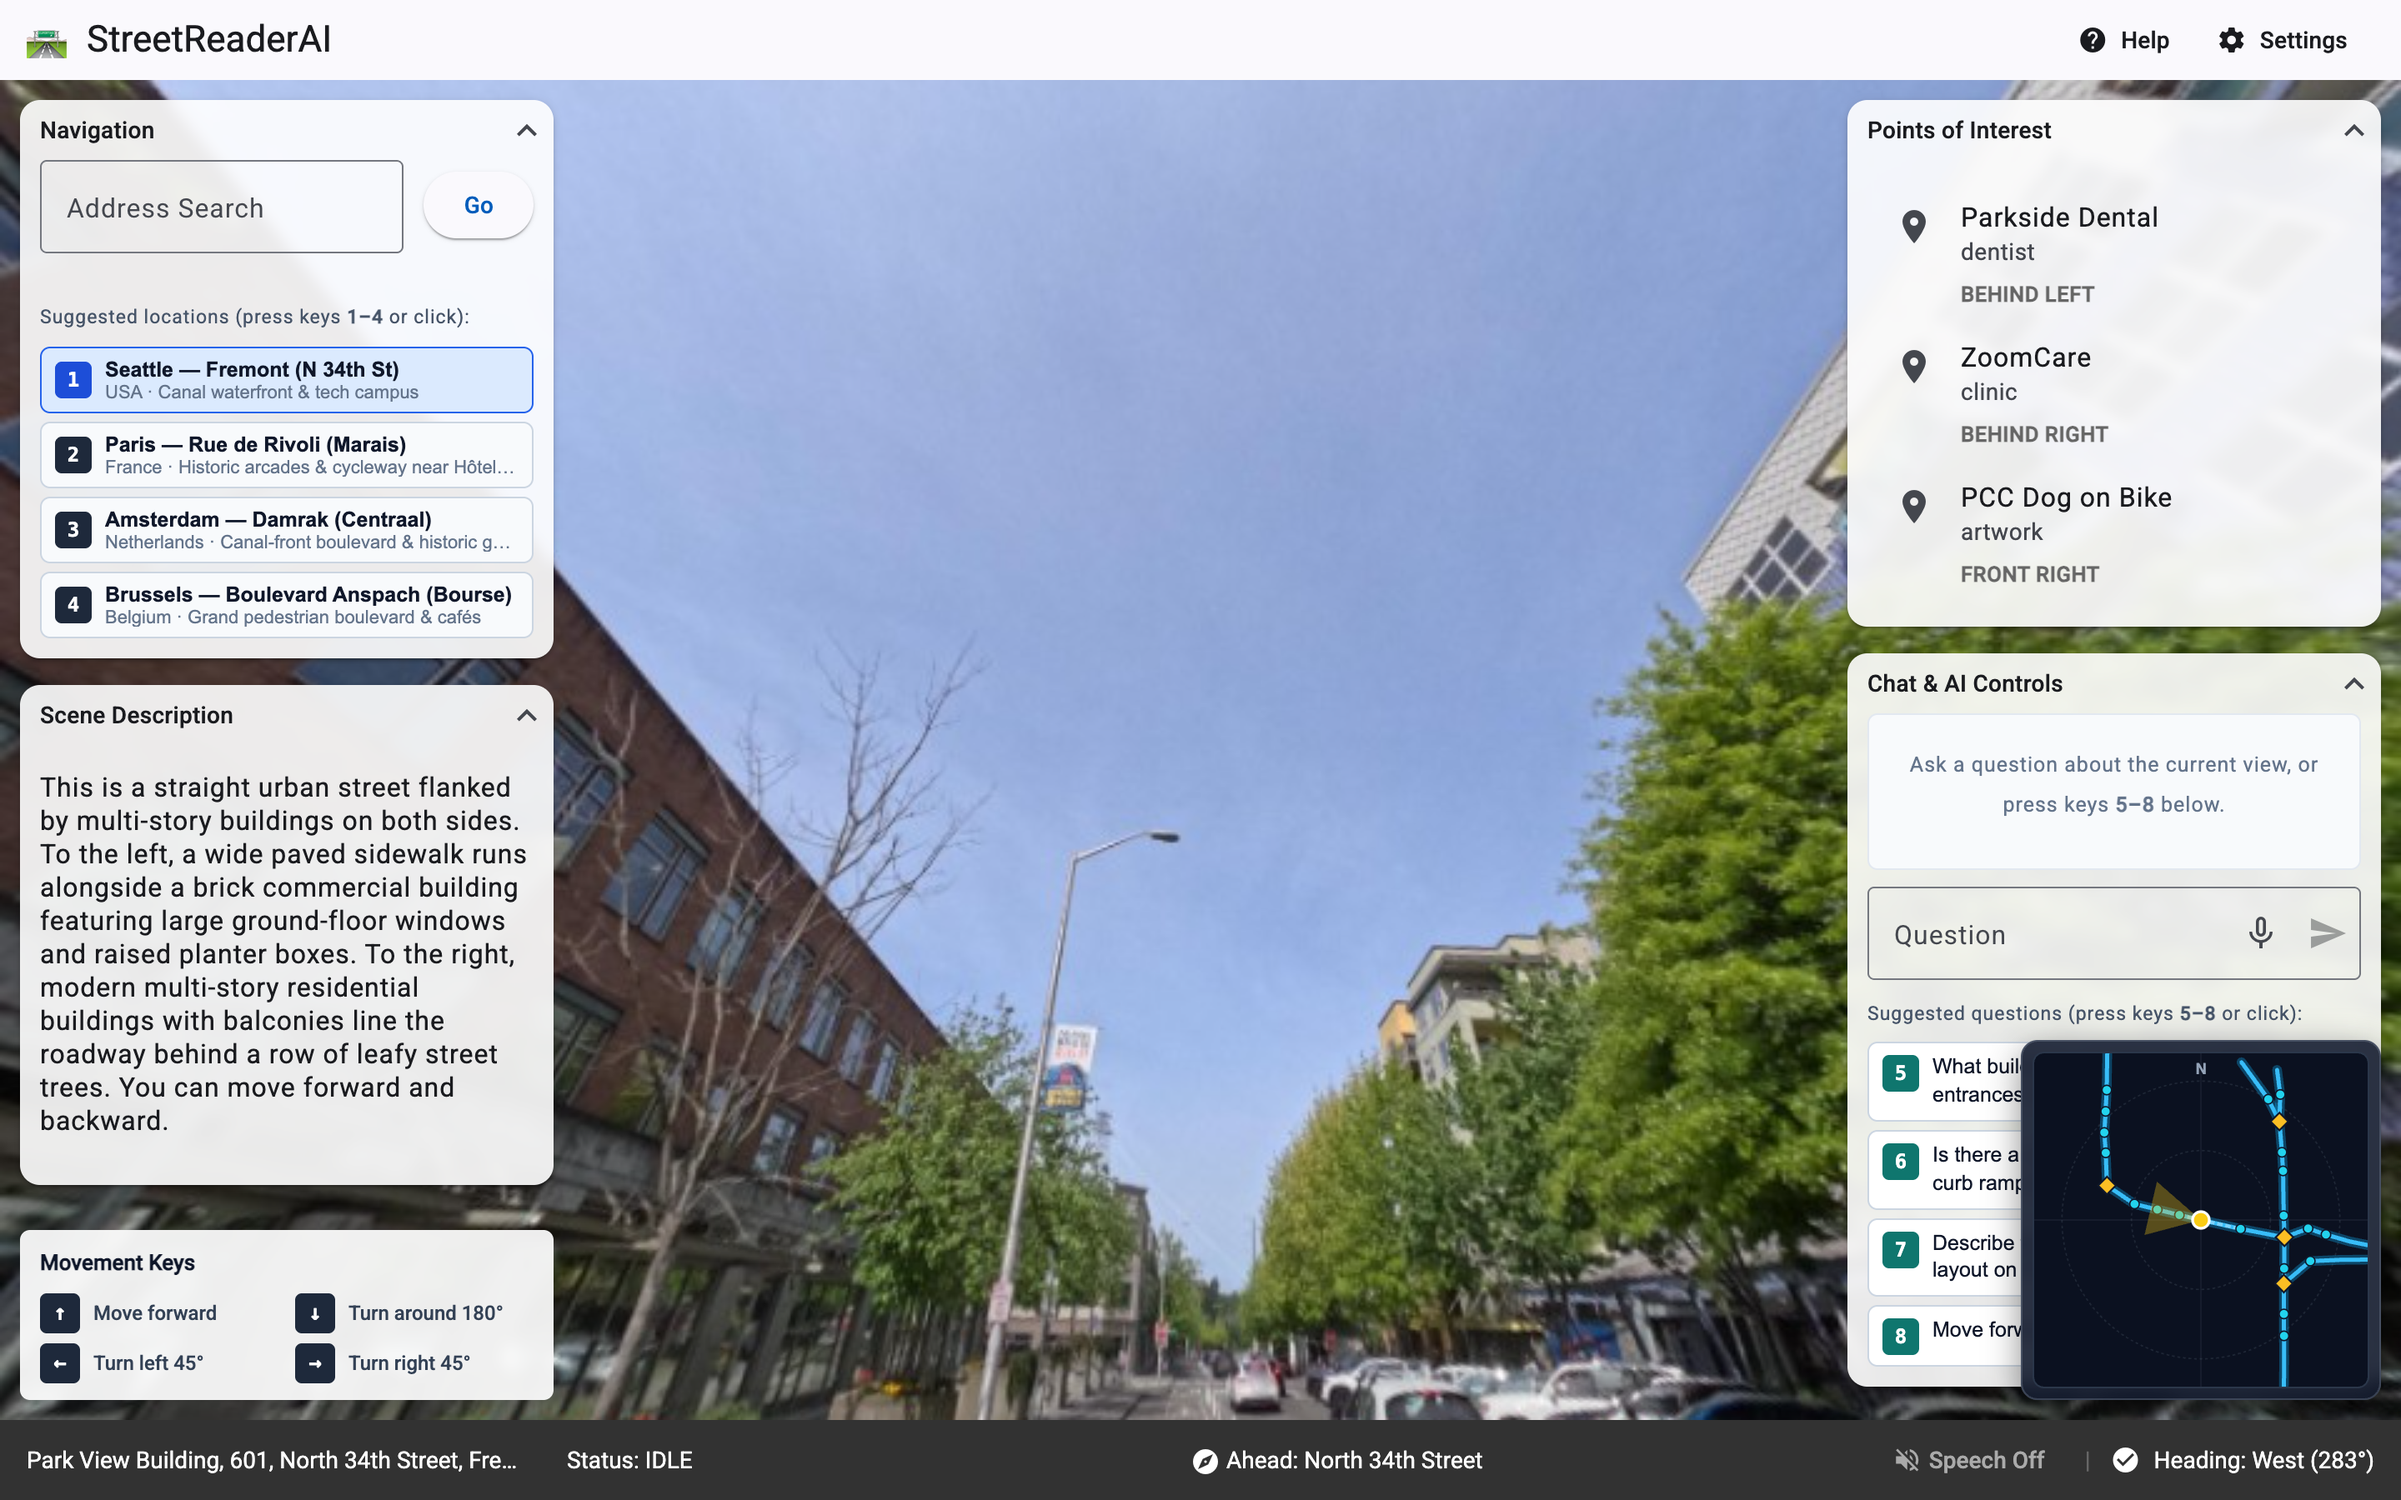
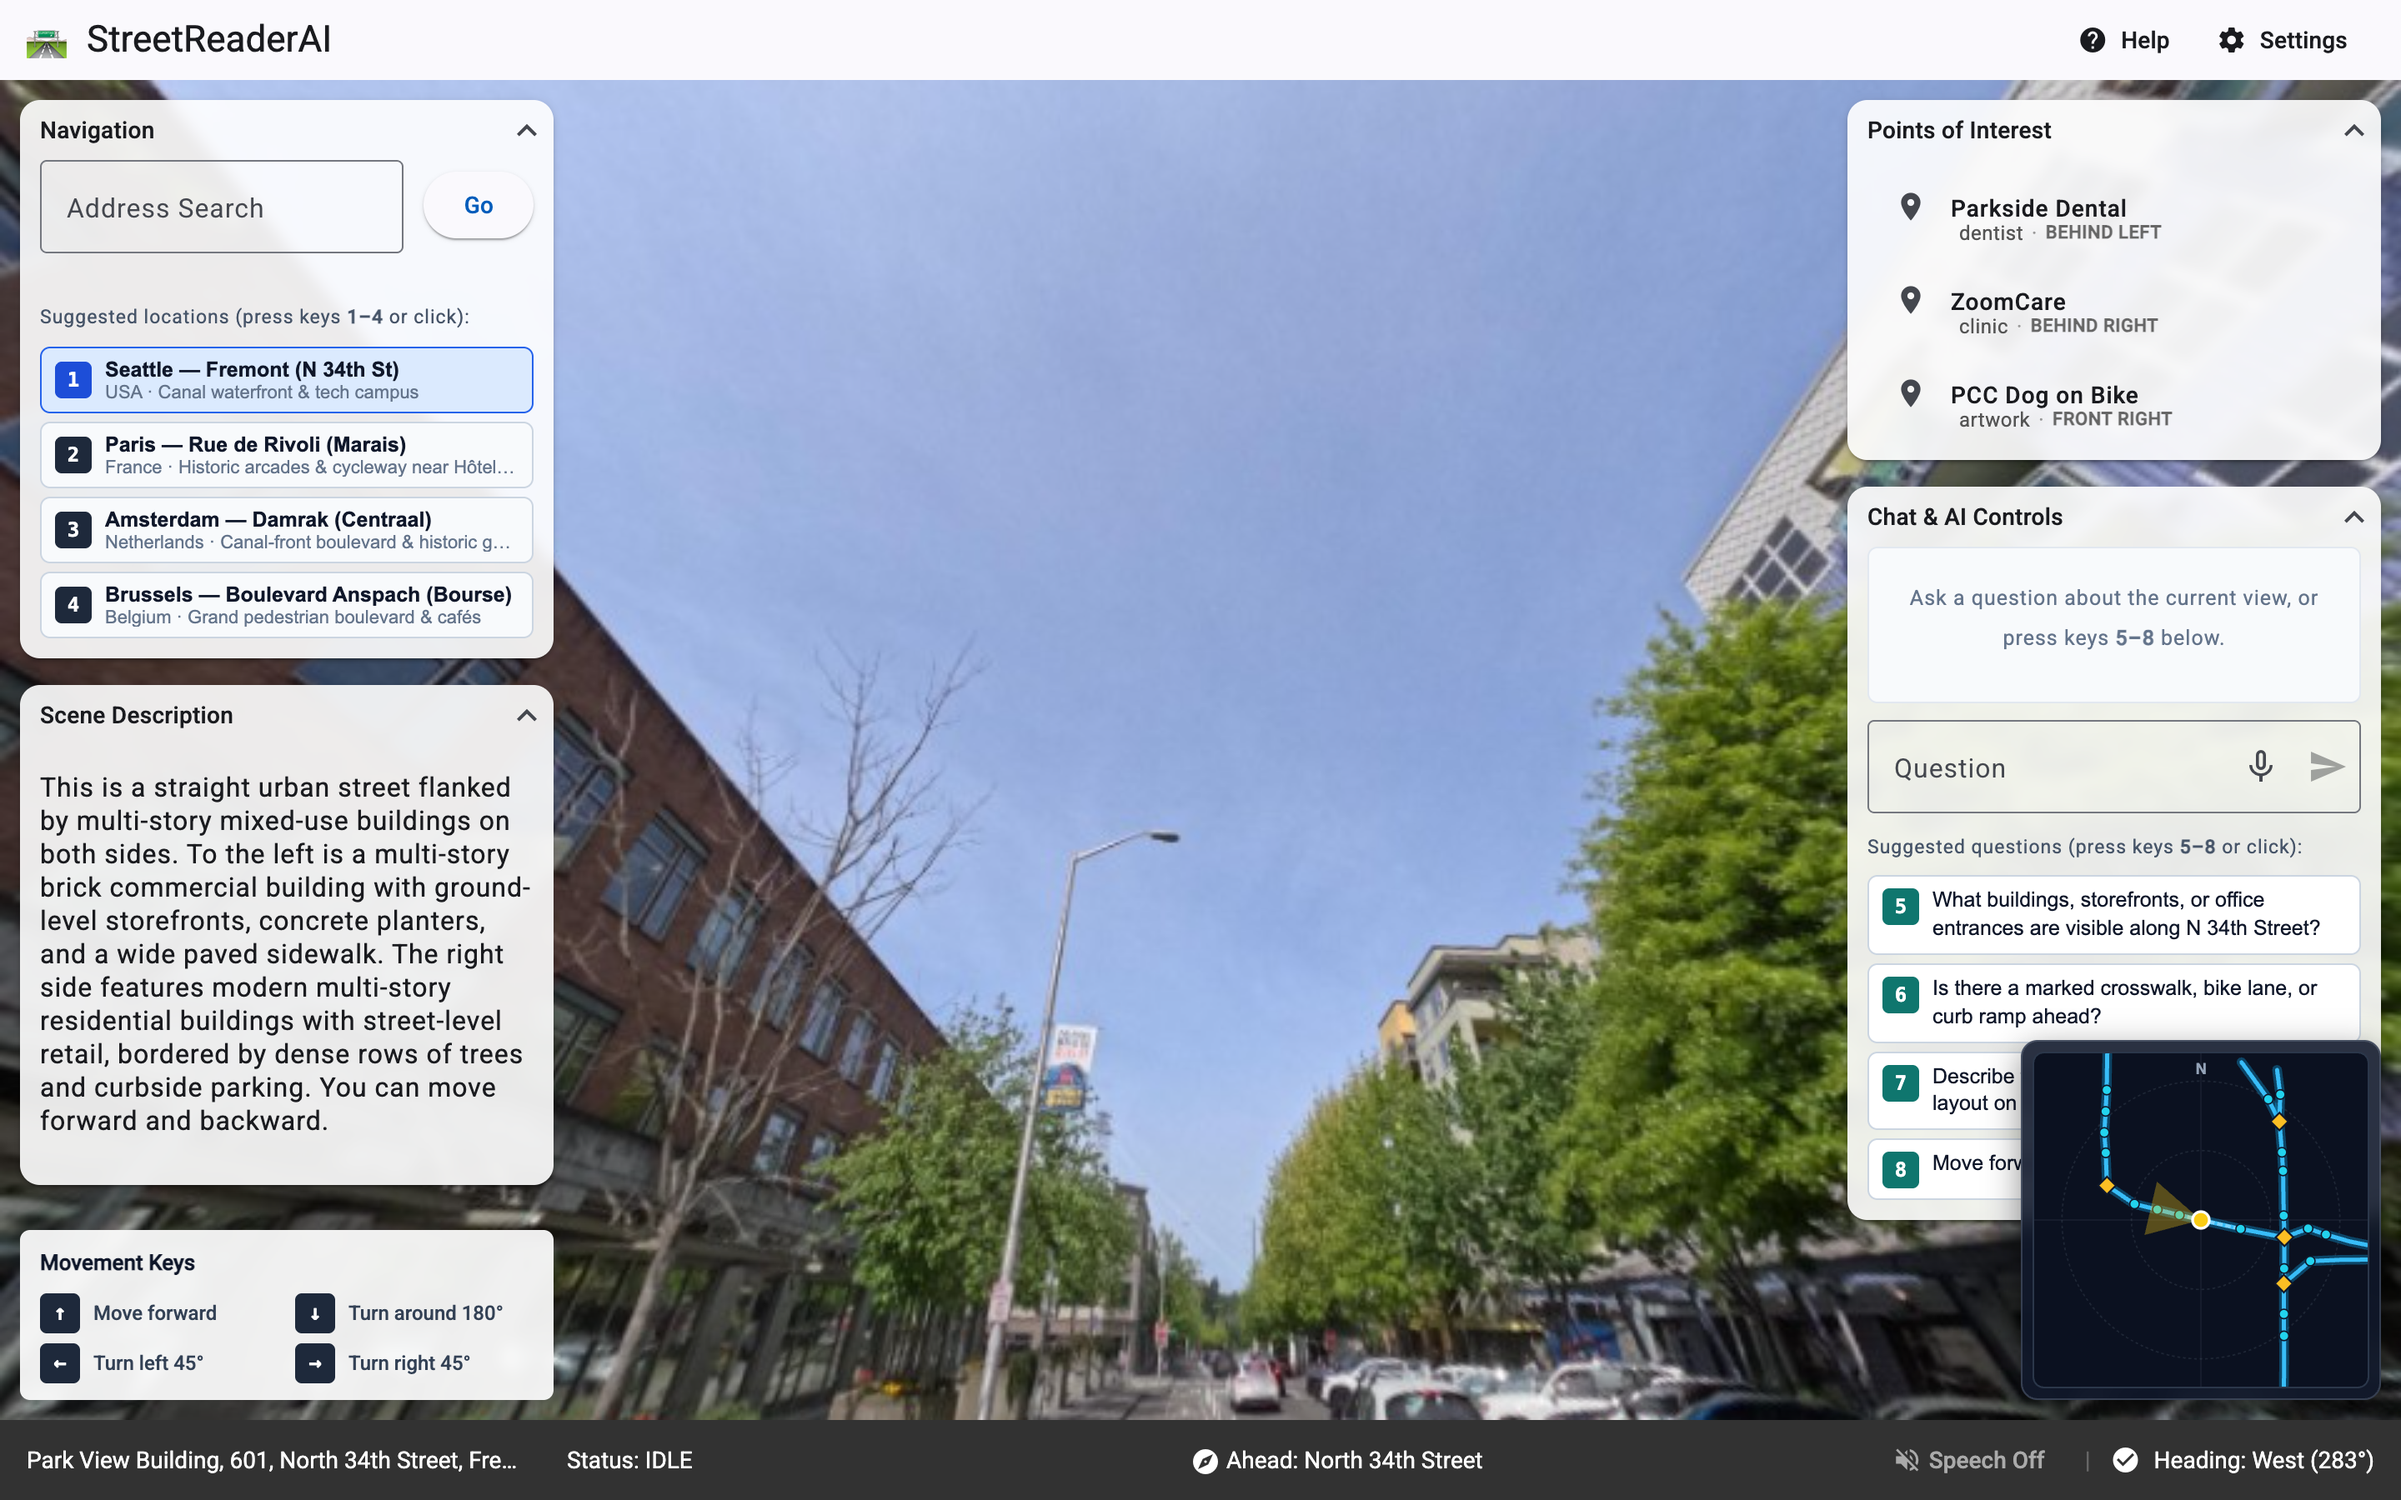
style: compact POI list rows, remove legacy backend notes, and update screenshot

diff --git a/src/app/components/poi_list/poi_list.css b/src/app/components/poi_list/poi_list.css
@@ -14,23 +14,55 @@
  limitations under the License.
  */
 
+.compact-poi-list {
+  padding-top: 0 !important;
+  padding-bottom: 0 !important;
+  --mdc-list-list-item-two-line-container-height: 46px;
+}
+
+.compact-poi-item {
+  height: auto !important;
+  min-height: 44px !important;
+  padding-top: 2px !important;
+  padding-bottom: 2px !important;
+}
+
+.poi-icon {
+  font-size: 20px;
+  width: 20px;
+  height: 20px;
+  margin-right: 10px !important;
+}
+
+.poi-title {
+  font-size: 14px !important;
+  font-weight: 500 !important;
+  line-height: 1.25 !important;
+}
+
+.poi-meta {
+  display: flex;
+  align-items: center;
+  gap: 5px;
+  font-size: 12px !important;
+  line-height: 1.2 !important;
+  color: #555;
+}
+
+.poi-sep {
+  color: #999;
+}
+
 .position-tag {
-  font-size: 0.8em;
-  font-weight: bold;
+  font-size: 11px;
+  font-weight: 600;
   text-transform: uppercase;
   color: #666;
-  margin-top: 2px;
 }
 
 .empty-message {
-  padding: 16px;
+  padding: 12px;
   color: #757575;
   font-style: italic;
   text-align: center;
-}
-
-mat-list-item {
-  height: auto !important;
-  padding-bottom: 4px;
-  padding-top: 4px;
 }

diff --git a/src/app/components/poi_list/poi_list.html b/src/app/components/poi_list/poi_list.html
@@ -15,13 +15,18 @@
  -->
 
 @if (pois().length > 0) {
-  <mat-list>
+  <mat-list class="compact-poi-list">
     @for (poi of pois(); track poi.name) {
-      <mat-list-item>
-        <mat-icon matListItemIcon>{{ getIcon(poi.types) }}</mat-icon>
-        <div matListItemTitle>{{ poi.name }}</div>
-        <div matListItemLine>{{ poi.vicinity }}</div>
-        <div matListItemLine class="position-tag">{{ getRelativePosition(poi) }}</div>
+      <mat-list-item class="compact-poi-item">
+        <mat-icon matListItemIcon class="poi-icon">{{ getIcon(poi.types) }}</mat-icon>
+        <div matListItemTitle class="poi-title">{{ poi.name }}</div>
+        <div matListItemLine class="poi-meta">
+          @if (poi.vicinity) {
+            <span class="poi-vicinity">{{ poi.vicinity }}</span>
+            <span class="poi-sep">&middot;</span>
+          }
+          <span class="position-tag">{{ getRelativePosition(poi) }}</span>
+        </div>
       </mat-list-item>
     }
   </mat-list>

diff --git a/README.md b/README.md
@@ -18,8 +18,6 @@ While the original research prototype in the paper was built on Google Street Vi
 * **Geocoding & Places**: OpenStreetMap Nominatim & Overpass (with optional Google Maps Platform support).
 * **Multimodal AI**: Google Gemini (`gemini-3.8-flash`) or OpenAI (`gpt-5.6-terra`).
 
-*(Note: The earlier Python Flask backend + Angular client version is preserved on the [`client-server`](https://github.com/research-ground/streetreaderAI/tree/client-server) branch.)*
-
 ### Cite this work
 ```bibtex
 @inproceedings{Froehlich_2025,

diff --git a/GEMINI.md b/GEMINI.md
@@ -8,7 +8,6 @@ Welcome! As an AI development assistant (Gemini, Antigravity, Jetski, etc.) work
 
 ### 🌿 Branch Workflow
 1. **Primary Branch**: `main` is the primary development branch for the pure client-side Angular SPA.
-2. **Legacy Client-Server Branch**: The `client-server` branch preserves the earlier Python Flask backend + Angular client checkpoint.
 
 ---
 
